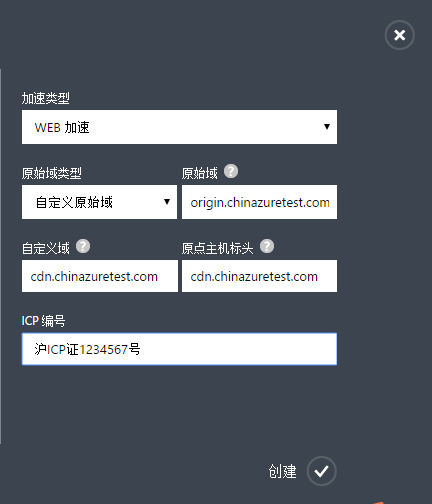
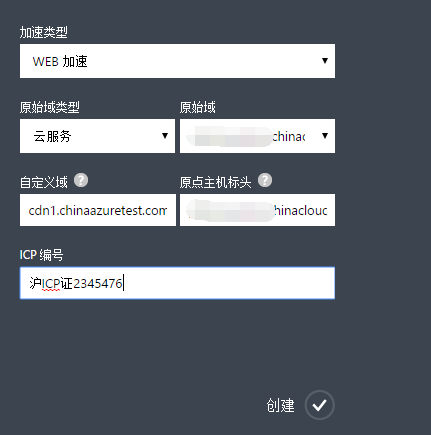
update

diff --git a/wacn/Tech doc/advanced-VOD.md b/wacn/Tech doc/advanced-VOD.md
@@ -1,9 +1,11 @@
 #VOD视频点播加速CDN节点创建
 VOD视频点播加速服务主要针对在线音视频点播提供加速服务。随着网路视频媒体服务的兴起，越来越多的用户选择使用网络平台收听观看各种音视频。加之国内网络环境的限制，对音视频内容的最终分发提出了非常高的要求。Windows Azure CDN将音频、视频等流媒体内容分发缓存到CDN边缘节点，将用户请求指向最优节点，减少源站服务器的负载，节省带宽资源，给用户提供高速、流畅、高质量的在线视频体验。
 
-Windows Azure CDN VOD视频点播基于HLS协议，并支持Windows Azure内置的[媒体服务](http://www.windowsazure.cn/home/features/media-services/)。
+Windows Azure CDN VOD视频点播加速支持Windows Azure内置的[媒体服务](http://www.windowsazure.cn/home/features/media-services/)。
 
 VOD视频点播加速适用于各类在线音视频点播网站，如媒体类视频网站，在线教育网站，移动端APP客户端等。
+
+本文是针对VOD视频点播加速域名创建，您也可以参考[使用Windows Azure CDN](http://www.windowsazure.cn/documentation/articles/cdn-how-to-use/)了解基本的Windows Azure CDN加速节点创建信息。
 
 ###**视频点播加速默认缓存规则**
 Windows Azure CDN针对VOD视频点播加速设置了默认缓存规则（见下文）。您也可以根据需求自定义设置缓存规则，具体请参考Windows Azure CDN管理门户高级管理的帮助文档“域名管理”。如果源站内容更改或者更新，同时设置的缓存生存时间未到期，可以通过手动刷新CDN缓存文件实时同步源站更新的内容，具体请参考Windows Azure CDN管理门户高级管理的帮助文档“缓存刷新”。
@@ -15,8 +17,6 @@ Windows Azure CDN针对VOD视频点播加速设置了默认缓存规则（见下
 3. 对mwv、html、htm、shtml、hml、gif、swf、png、bmp、js等缓存1小时
 4. 对7z、apk、 wdf、 cab、 dhp、exe、flv、gz、ipa、iso、mpk、MPQ、pbcv、pxl、qnp、r00、rar、xy、xy2、zip、CAB等文件缓存一个月
       
-本文是针对VOD视频点播加速域名创建，您也可以参考[使用Windows Azure CDN](http://www.windowsazure.cn/documentation/articles/cdn-how-to-use/)了解基本的Windows Azure CDN加速节点创建信息。
-
 ###**创建VOD视频点播加速域名**
 
 1. 在 Windows Azure 管理门户的导航窗格中，单击“CDN”。
@@ -25,7 +25,7 @@ Windows Azure CDN针对VOD视频点播加速设置了默认缓存规则（见下
 
     ![016](images/016.png)
 
-4. 在“原始域类型”下拉列表中，选择存储账户，媒体服务或者自定义原始域。**注意** 视频点播加速服务只支持存储账户，媒体服务或者自定义原始域。其中存储账户，支持MP4视频格式。
+4. 在“原始域类型”下拉列表中，选择云服务，存储账户，Web应用，媒体服务或者自定义原始域。
 5. 在“原始域”下拉列表中，从可用的存储帐户，媒体服务列表中选择一个用于创建CDN终结点。  
     ![017](images/017.png)
 

diff --git a/wacn/Tech doc/advanced-livestreaming.md b/wacn/Tech doc/advanced-livestreaming.md
@@ -1,9 +1,11 @@
 #流媒体直播加速CDN节点创建
 流媒体直播加速服务主要针对在线视音频播提供加速服务。网络直播服务快速、实时的特性备受广大用户青睐。直播的实时性导致海量用户并发访问，给源站和带宽资源带来巨大压力，同时受国内网络跨地域跨运营商的限制，对高质量、快速的流媒体直播提出了较高的要求。Windows Azure CDN流媒体加速服务通过将实时采集源站视频流并分发到距离用户最近的CDN边缘节点，通过智能缓存和调度策略，为用户提供计算最优节点，减少链路传输造成的延迟和带宽压力，且按使用量付费，给用户提供高速、流畅、高质量的直播观看体验。
 
-Windows Azure CDN 流媒体直播加速基于RTMP流媒体协议，支持Windows Azure内置的[媒体服务](http://www.windowsazure.cn/home/features/media-services/)。
+Windows Azure CDN 流媒体直播加速主要基于HTTP Live Streaming(HLS)协议，支持Windows Azure内置的[媒体服务](http://www.windowsazure.cn/home/features/media-services/)。
 
 流媒体直播加速适用于各类流媒体直播网站，如网络电视直播，体育赛事，盛典赛事直播等。
+
+本文是针对流媒体直播加速域名创建，您也可以参考[使用Windows Azure CDN](http://www.windowsazure.cn/documentation/articles/cdn-how-to-use/)了解基本的Windows Azure CDN加速节点创建信息。
 
 ###**流媒体直播加速默认缓存规则**
 Windows Azure CDN针对VOD视频点播加速设置了默认缓存规则（见下文）。您也可以根据需求自定义设置缓存规则，具体请参考Windows Azure CDN管理门户高级管理的帮助文档“域名管理”。如果源站内容更改或者更新，同时设置的缓存生存时间未到期，可以通过手动刷新CDN缓存文件实时同步源站更新的内容，具体请参考Windows Azure CDN管理门户高级管理的帮助文档“缓存刷新”。
@@ -13,8 +15,6 @@ Windows Azure CDN针对VOD视频点播加速设置了默认缓存规则（见下
  1. 对ts文件缓存2分钟
  2. 对m3u8 文件缓存2秒钟 
       
-本文是针对流媒体直播加速域名创建，您也可以参考[使用Windows Azure CDN](http://www.windowsazure.cn/documentation/articles/cdn-how-to-use/)了解基本的Windows Azure CDN加速节点创建信息。
-
 ###**创建V流媒体直播加速域名**
 
 1. 在 Windows Azure 管理门户的导航窗格中，单击“CDN”。
@@ -23,9 +23,7 @@ Windows Azure CDN针对VOD视频点播加速设置了默认缓存规则（见下
 
     ![025](images/025.png)
 
-4. 在“原始域类型”下拉列表中，选择媒体服务或者自定义原始域。
-     
-     **注意** 流媒体直播加速只支持“媒体服务”和自定义原始域。
+4. 在“原始域类型”下拉列表中，选择云服务，存储账户，Web应用，媒体服务或者自定义原始域。
 5. 在“原始域”下拉列表中，从可用的媒体服务列表中选择一个用于创建CDN终结点。  
     ![026](images/026.png)
 

diff --git a/wacn/Tech doc/advanced-download.md b/wacn/Tech doc/advanced-download.md
@@ -3,6 +3,8 @@
 
 下载加速适用于操作系统固件升级，游戏客户端，手机app更新，应用程序下载等用户场景。
 
+本文是针对下载类型加速域名创建，您也可以参考[使用Windows Azure CDN](http://www.windowsazure.cn/documentation/articles/cdn-how-to-use/)了解基本的Windows Azure CDN加速节点创建信息。
+
 ###**下载加速默认缓存规则**
 Windows Azure CDN针对下载加速设置了默认缓存规则（见下文）。您也可以根据需求自定义设置缓存规则，具体请参考Windows Azure CDN管理门户高级管理的帮助文档“域名管理”。如果源站内容更改或者更新，同时设置的缓存生存时间未到期，可以通过手动刷新CDN缓存文件实时同步源站更新的内容，具体请参考Windows Azure CDN管理门户高级管理的帮助文档“缓存刷新”。
 
@@ -10,8 +12,6 @@ Windows Azure CDN针对下载加速设置了默认缓存规则（见下文）。
 
 1. 对php、aspx、asp、jsp、do等动态文件不缓存。
 2. 对7z、apk、 wdf、 cab、 dhp、exe、flv、gz、ipa、iso、mpk、MPQ、pbcv、pxl、qnp、r00、rar、xy、xy2、zip、CAB等文件缓存一个月。
-
-本文是针对下载类型加速域名创建，您也可以参考[使用Windows Azure CDN](http://www.windowsazure.cn/documentation/articles/cdn-how-to-use/)了解基本的Windows Azure CDN加速节点创建信息。
 
 ###**创建下载类型加速域名**
 
@@ -28,10 +28,10 @@ Windows Azure CDN针对下载加速设置了默认缓存规则（见下文）。
     如果“原始域类型”选择的是“自定义原始域”，那么请在“原始域”里输入您自己的原始域地址。您可以填写一个或者多个原始域ip地址，多个请以“;”分隔，如“126.1.1.1;172.1.1.1），或者原始域名，如origin.azurechina.com
     ![008](images/008.png)
 
-6. 在“自定义域”中输入要使用的自定义域名如：cdn.azurechina.com。自定义域支持泛域名加速。
+6. 在“自定义域”中输入要使用的自定义域名如：cdn1.azurechinatest.com。自定义域支持泛域名加速。
 7. 在“原点主机标头（origin host header）”中输入您的源站所接受的回源访问host header。当您输入完“自定义域”之后，系统会根据您所选择的“原始域类型”来自动填充一个默认值。具体的规则是，如果您的源站是在Azure上的话，默认值就是相应的源站地址。如果您的源站不在Azure上，默认值是您输入的“自定义域名”，当然您也可以根据自己源站的实际配置情况来修改。
 
-    原始域类型是云服务，对应的回源主机标头：
+    原始域类型是存储账户，对应的回源主机标头：
 
     ![007](images/007.png)  
     
